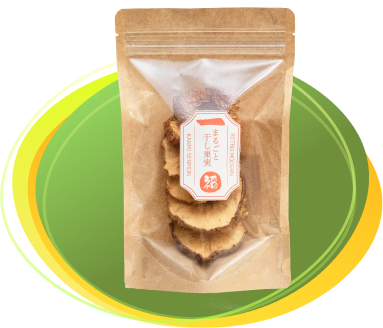
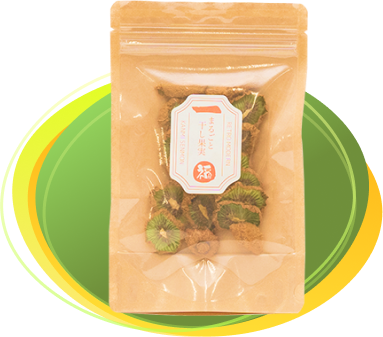
a

diff --git a/src/components/footer.tsx b/src/components/footer.tsx
@@ -23,7 +23,13 @@ const Footer = () => {
                     </a>
                 </div>
             </div>
-            <p className="md:text-[20px] text-[12px] text-white text-right">© 2024 Copy Rights ippuku All Reserve.</p>
+            <div className="flex items-center justify-end w-full max-w-[1334px] mx-auto md:gap-x-[12%] gap-x-10 gap-y-7 max-xl:flex-col max-md:mt-3">
+                <div className="flex items-center justify-center md:justify-end xl:gap-x-[20%] gap-x-10 gap-y-7 flex-1 max-md:flex-wrap">
+                    <a href="https://kanmi.ippuku.store/pages/%E7%89%B9%E5%AE%9A%E5%95%86%E5%93%81%E5%8F%96%E5%BC%95%E6%B3%95%E3%81%AB%E3%82%88%E3%82%8B%E8%A1%A8%E8%A8%98" target="_blank" className="md:text-[20px] text-[16px] text-white duration-300 hover:opacity-70">特定商取引法に基づく表記</a>
+                    <a href="https://kanmi.ippuku.store/pages/%E3%83%97%E3%83%A9%E3%82%A4%E3%83%90%E3%82%B7%E3%83%BC%E3%83%9D%E3%83%AA%E3%82%B7%E3%83%BC" target="_blank" className="md:text-[20px] text-[16px] text-white duration-300 hover:opacity-70">プライバシーポリシー</a>
+                </div>
+                <p className="md:text-[20px] text-[12px] text-white text-right">© 2024 Copy Rights ippuku All Reserve.</p>
+            </div>
             </div>
         </div>
     </footer>

diff --git a/src/app/components/ichifuku.tsx b/src/app/components/ichifuku.tsx
@@ -34,7 +34,7 @@ const Ichifuku = () => {
                 「果物そのもの」<span className="md:text-[28px] text-[14px]">の</span>甘味<span className="md:text-[28px] text-[14px]">と</span>健康に良い栄養分<span className="md:text-[30px] text-[15px]">が</span><span className="md:text-[36px] text-[18px]">詰まった</span><br />
                 ドライキウイ<span className="md:text-[28px] text-[14px]">を</span>作り上げました。
             </div>
-            <div className="fade-up flex justify-center md:mt-9 mt-6">
+            <div className="fade-up flex justify-center md:mt-[52px] mt-6">
                 <img className='max-md:w-[240px]' src="/assets/images/package-kiwi-02.png" alt="" />
             </div>
         </div>
